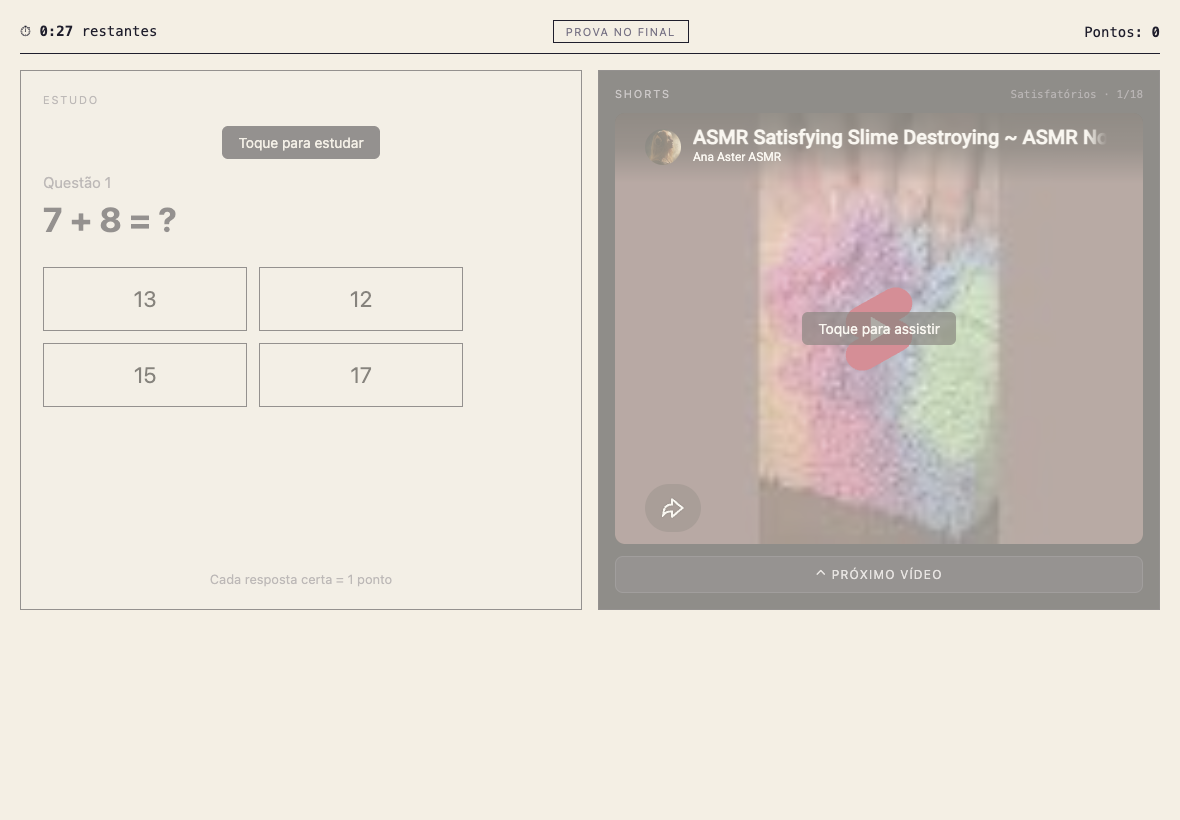
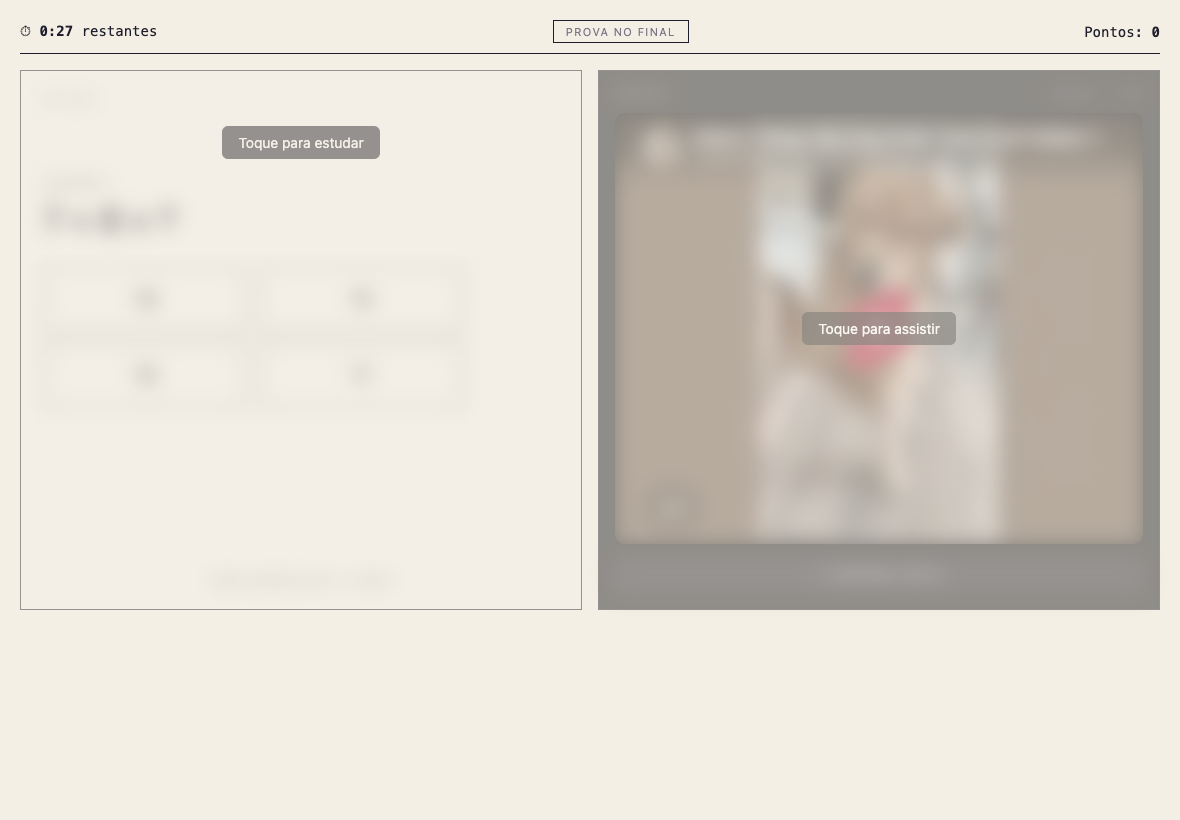
Blur the inactive side of the Task 2 split screen
10 px blur on the inactive side's content (question, answers, video,
labels) on top of the existing dimming; the "tap to …" hints stay sharp.

diff --git a/task2/index.html b/task2/index.html
@@ -153,6 +153,13 @@
     display: flex; flex-direction: column;
   }
   .pane.inactive { opacity: 0.45; filter: grayscale(0.4); }
+  /* Inactive side is blurred so it can't be followed from the other side.
+     Blur the content, not the pane, so the "tap to …" hints stay sharp. */
+  .pane .study-label, .pane .study-card, .pane .shorts-label, .pane .player iframe, .pane .next-video {
+    transition: filter 0.25s ease;
+  }
+  .pane.inactive .study-label, .pane.inactive .study-card, .pane.inactive .shorts-label,
+  .pane.inactive .player iframe, .pane.inactive .next-video { filter: blur(10px); }
   .pane.inactive .study-card button { pointer-events: none; }
 
   /* study side */
